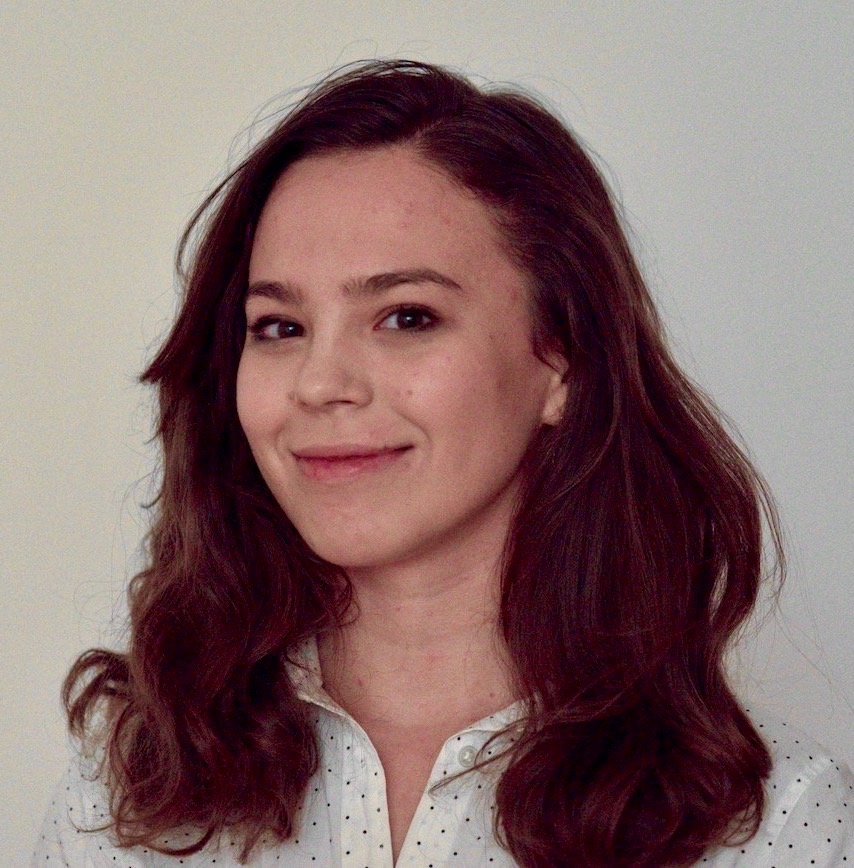
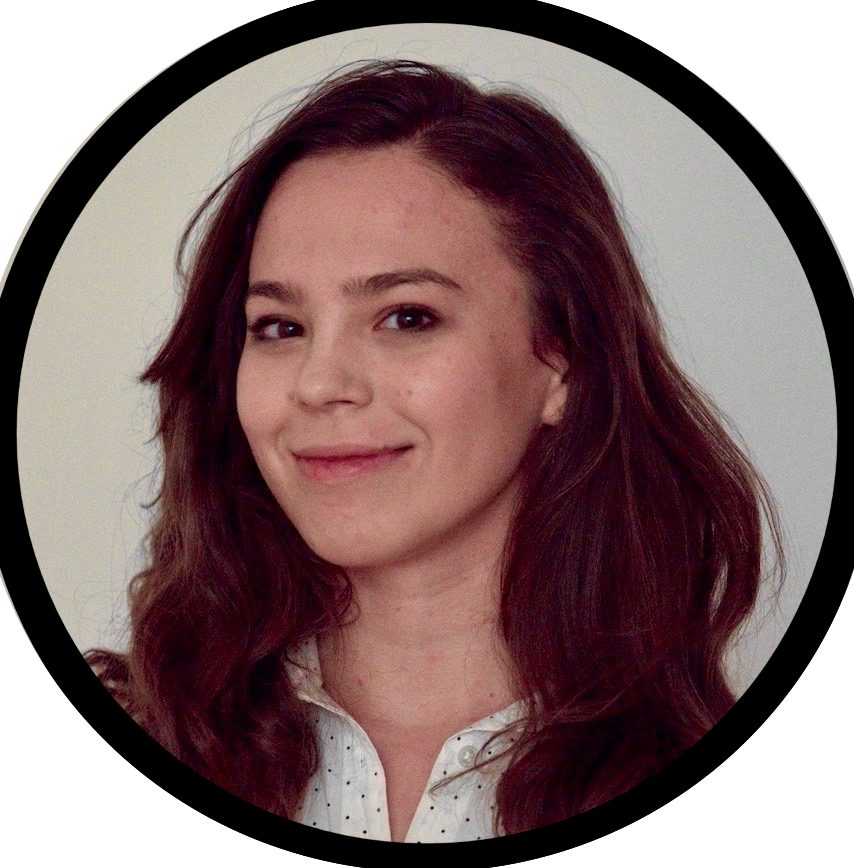
update photo

Changed region(s): [[0.0, 0.0, 1.0, 1.0]]

diff --git a/index.md b/index.md
@@ -2,7 +2,7 @@
 layout: default
 ---
 
-<img class="profile-picture" src="docs/profile.jpg">
+<img class="profile-picture" src="docs/profile.png">
 
 Hey there! I'm a **senior** studying math and computer science ([course 18C](https://math.mit.edu/academics/undergrad/major/course18c.php)) at MIT. 
 
